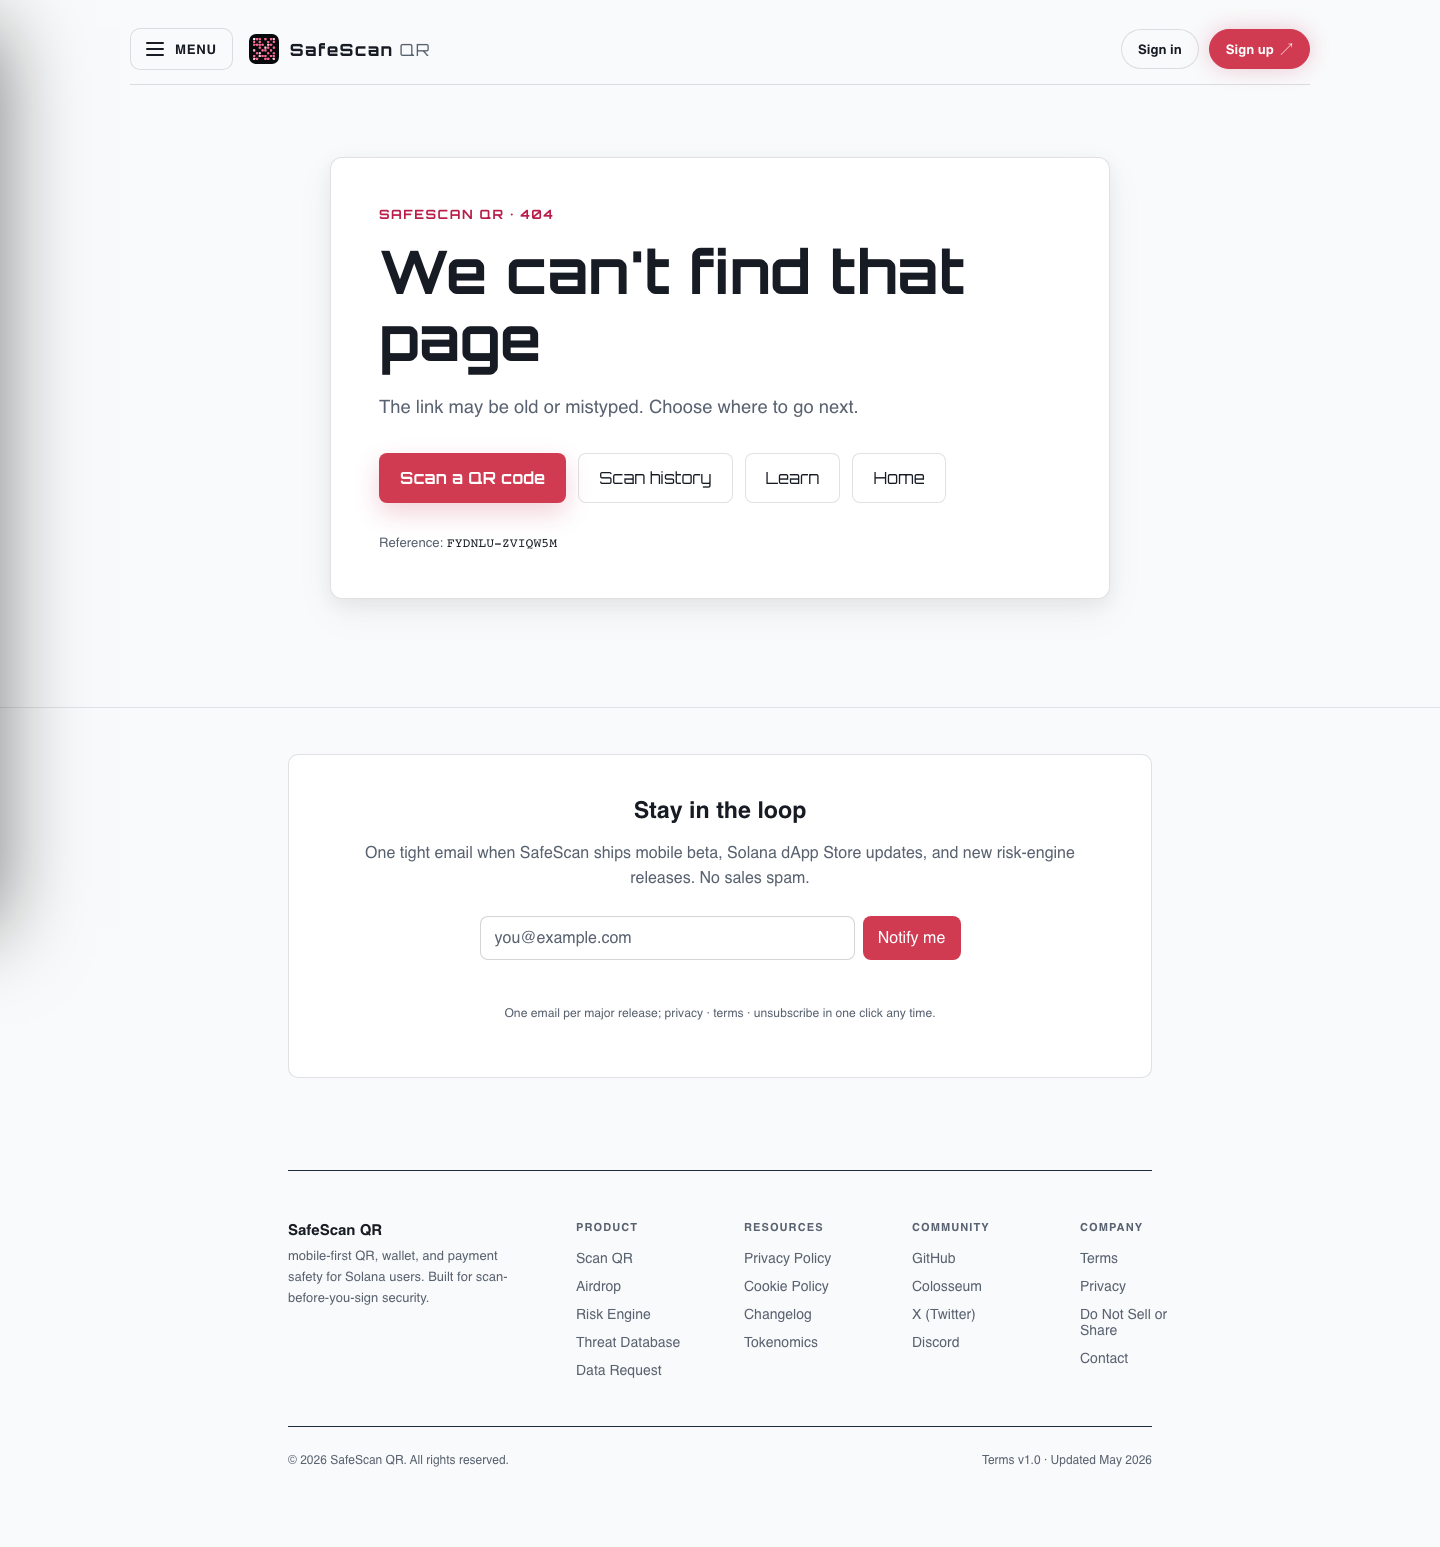
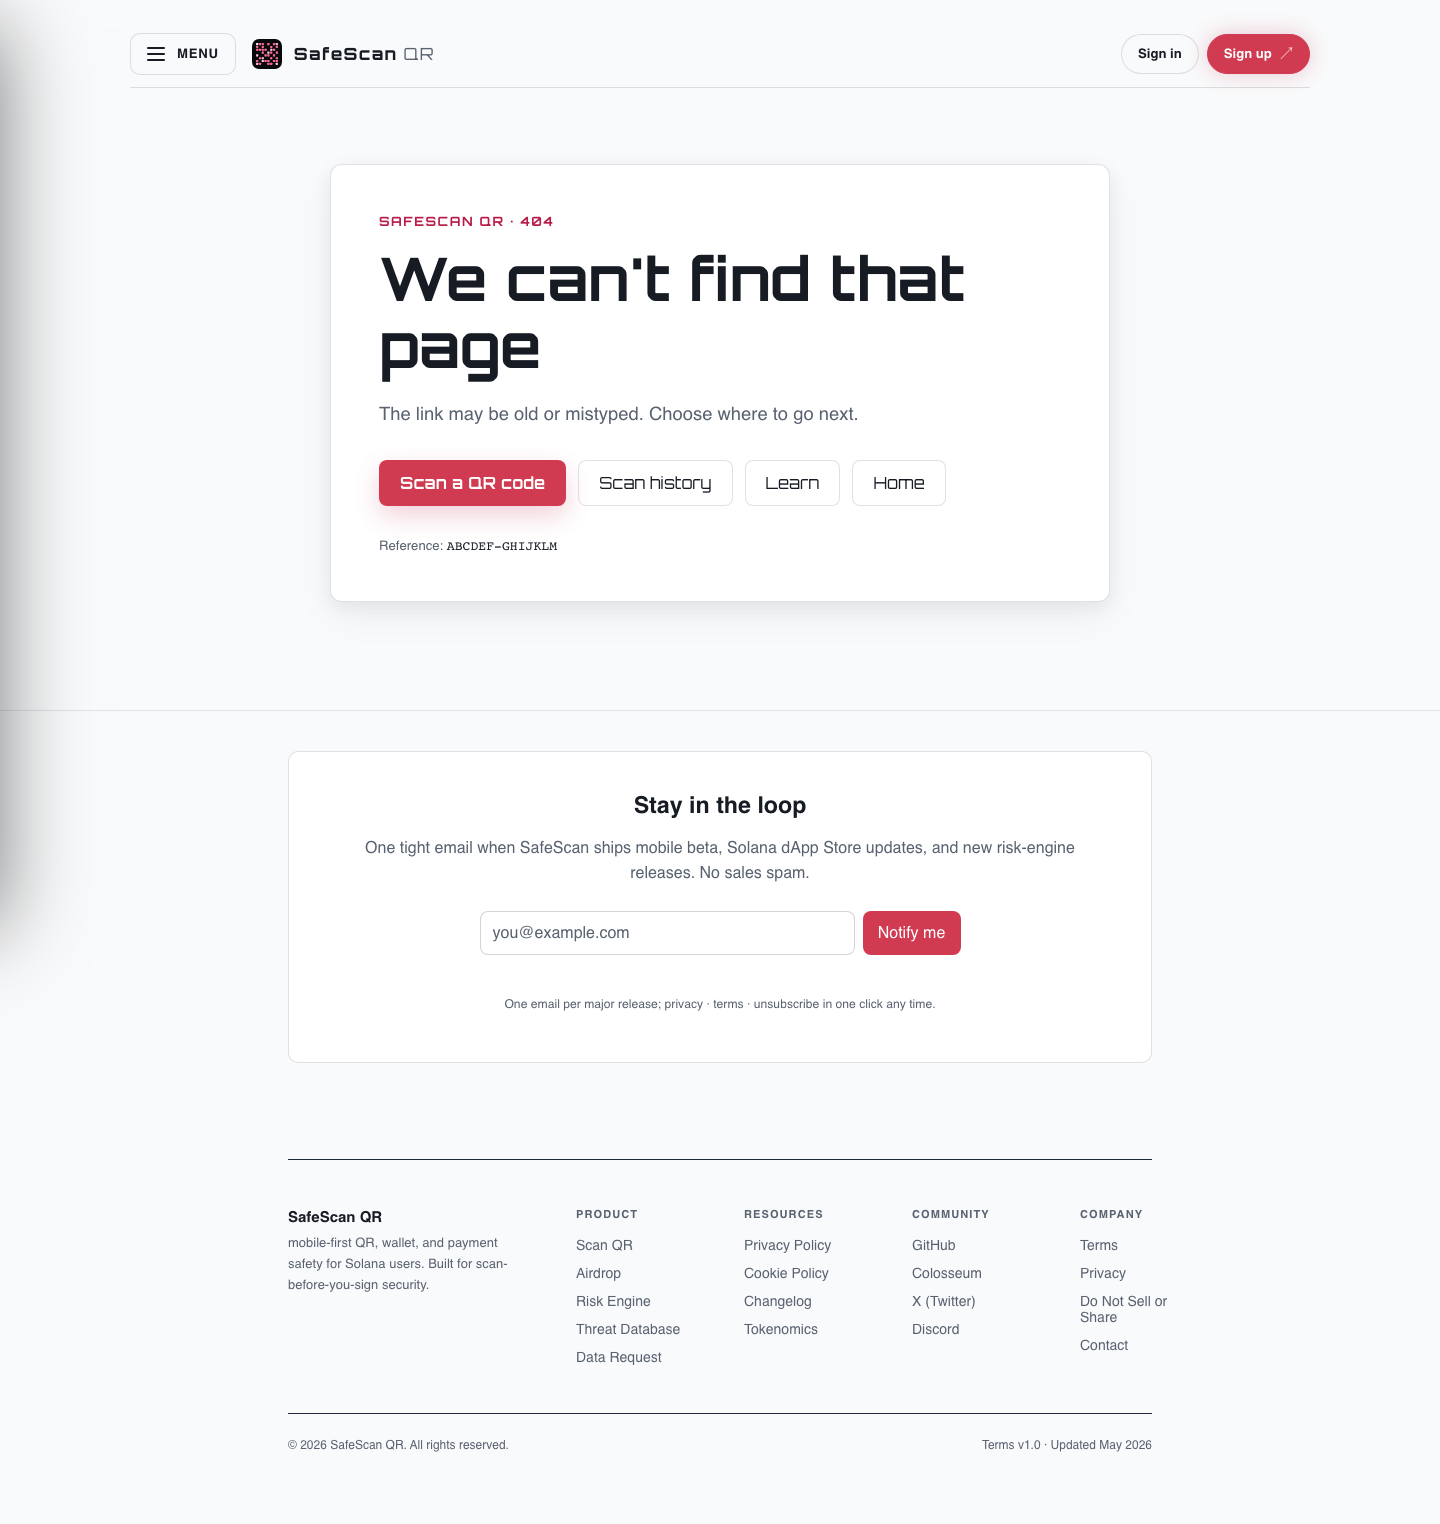
Align error pages with shared UI tokens

diff --git a/static/styles-errors.css b/static/styles-errors.css
@@ -3,12 +3,12 @@
   display: grid;
   place-items: center;
   min-height: min(62vh, 620px);
-  padding: var(--space-8, 32px) 0 var(--space-10, 48px);
+  padding: var(--space-8) var(--space-0) var(--space-10);
 }
 
 .error-card {
   width: min(100%, 780px);
-  padding: clamp(24px, 5vw, 48px);
+  padding: var(--space-10);
   border: 1px solid var(--line);
   border-radius: var(--radius-inner);
   background: var(--panel);
@@ -16,7 +16,7 @@
 }
 
 .error-eyebrow {
-  margin: 0 0 var(--space-5, 16px);
+  margin: var(--space-0) var(--space-0) var(--space-5);
   color: var(--accent);
   font-family: var(--display-font);
   font-size: 0.8rem;
@@ -27,7 +27,7 @@
 
 .error-card h1 {
   max-width: 18ch;
-  margin: 0;
+  margin: var(--space-0);
   font-family: var(--display-font);
   font-size: clamp(2rem, 5vw, 3.75rem);
   line-height: 1.12;
@@ -35,7 +35,7 @@
 
 .error-description {
   max-width: 60ch;
-  margin: var(--space-6, 20px) 0 0;
+  margin: var(--space-6) var(--space-0) var(--space-0);
   color: var(--muted);
   font-size: clamp(1rem, 2vw, 1.15rem);
   line-height: 1.6;
@@ -44,8 +44,8 @@
 .error-actions {
   display: flex;
   flex-wrap: wrap;
-  gap: var(--space-4, 12px);
-  margin-top: var(--space-8, 32px);
+  gap: var(--space-4);
+  margin-top: var(--space-8);
 }
 
 .error-actions a,
@@ -59,15 +59,20 @@
 .error-actions button:disabled { opacity: 0.6; cursor: wait; }
 
 .error-reference {
-  margin: var(--space-8, 32px) 0 0;
+  margin: var(--space-8) var(--space-0) var(--space-0);
   color: var(--muted);
   font-size: 0.82rem;
 }
 
 .error-reference code { color: var(--text); }
 
+@media (max-width: 900px) {
+  .error-card { padding: var(--space-8); }
+}
+
 @media (max-width: 580px) {
   .error-main { min-height: 55vh; }
+  .error-card { padding: var(--space-7); }
   .error-actions { flex-direction: column; }
   .error-actions a, .error-actions button { width: 100%; }
 }

diff --git a/templates/errors/_base.html b/templates/errors/_base.html
@@ -5,10 +5,11 @@
   <meta name="viewport" content="width=device-width, initial-scale=1.0">
   <meta name="robots" content="noindex">
   <script src="/static/theme-init.js?v=rose-theme-v1"></script>
+  <script src="/static/ui-states.js?v=ui-states-v1"></script>
   <title>{% block page_title %}SafeScan needs a moment{% endblock %} | SafeScan QR</title>
   <link rel="icon" href="/static/safescan-logo.svg?v=rose-theme-v1" type="image/svg+xml">
-  <link rel="stylesheet" href="/static/styles.css?v=scanner-phase-4">
-  <link rel="stylesheet" href="/static/styles-errors.css?v=ui-error-v1">
+  <link rel="stylesheet" href="/static/styles.css?v=ui-error-v2">
+  <link rel="stylesheet" href="/static/styles-errors.css?v=ui-error-v2">
 </head>
 <body class="error-page" data-error-method="{{ request_method }}">
   <div class="page-shell">

diff --git a/docs/design/screenshots/ui-phase-4/README.md b/docs/design/screenshots/ui-phase-4/README.md
@@ -1,6 +1,6 @@
 # Phase 4 error-page screenshots
 
-Playwright Chromium captures from the baseline `83eed0a` and this branch, with the same local server configuration. The old 404 is a raw JSON response. The new 404 and signed-out 403/401 use the public page shell. Each capture is a full page at the stated viewport width.
+Playwright Chromium captures from the baseline `83eed0a` and this branch after rebasing onto the shared UI tokens. The after views use locally rendered templates with a fixed sample request ID; no account or production data is used. The old 404 is a raw JSON response. The new 404 and signed-out 403/401 use the public page shell. Each capture is a full page at the stated viewport width.
 
 | Width | Theme | 404 before | 404 after | Access page after |
 | --- | --- | --- | --- | --- |
